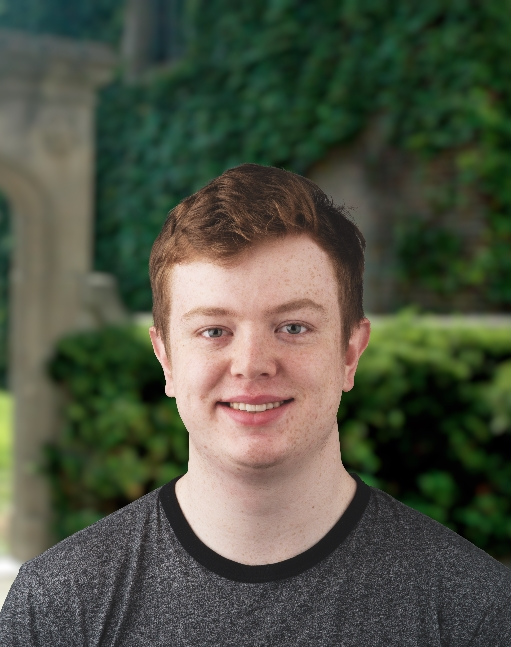
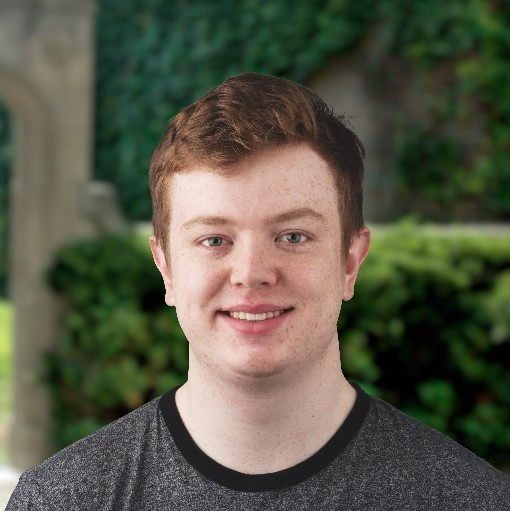
styling

diff --git a/index.html b/index.html
@@ -4,8 +4,10 @@
 <link rel="stylesheet" type="text/css" href="style.css">
 </head> 
 <body>
+<div class="main">
 <img class="circle" src="/assets/headshot.jpg"/>
 <h1>Colin Vandenhof</h1>
 <p> <a href="/cv.pdf"> CV </a> </p>
+</div>
 </body>
 </html>

diff --git a/style.css b/style.css
@@ -1,3 +1,10 @@
 .circle {
     border-radius: 50%;
+    border: 3px solid black;
+}
+
+.main {
+	display: flex;
+	justify-content: center;
+	align-content: center;
 }
